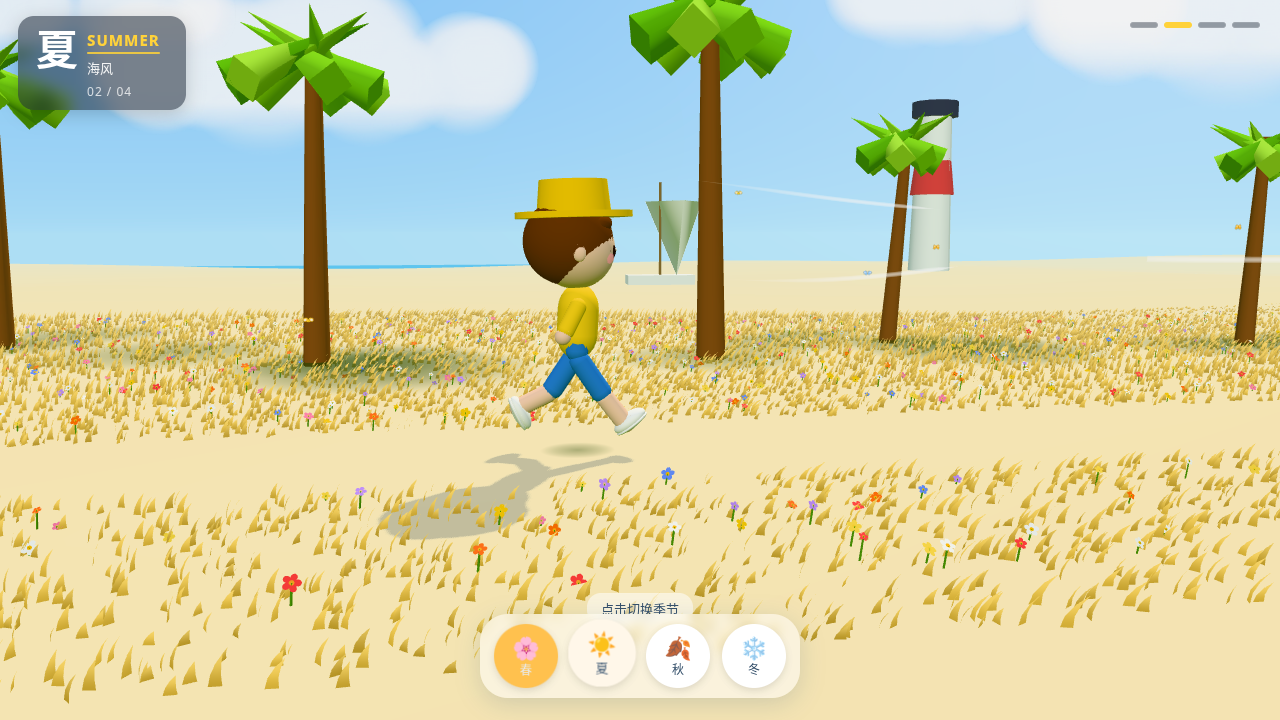
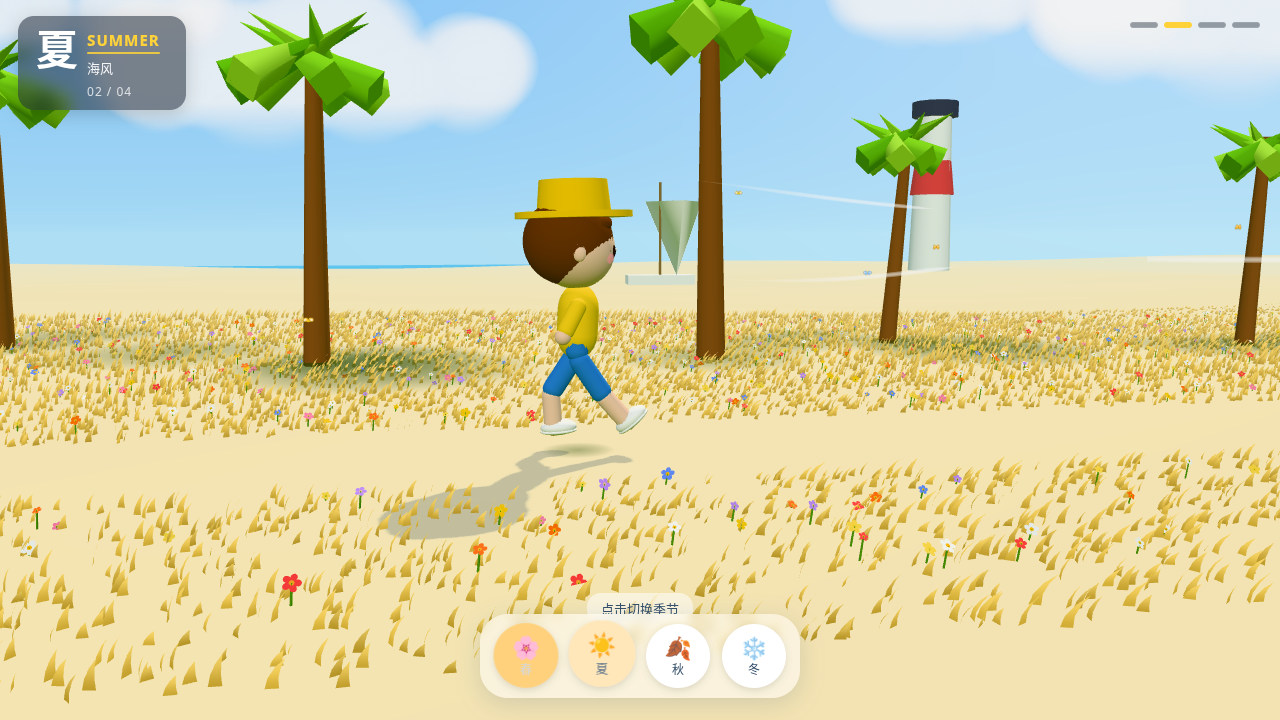
膝盖改为向后弯曲，去掉反关节

Changed region(s): [[0.375, 0.8556, 0.5, 0.9778], [0.375, 0.5194, 0.5, 0.6417]]

diff --git a/main.js b/main.js
@@ -853,14 +853,13 @@ function update(dt) {
   const stride = 0.78; // big elegant step
   u.legs.forEach((l, i) => {
     const side = i ? 1 : -1;
-    // slight ease-in-out on thigh
-    const ang = side * wc * stride;
-    l.rotation.x = ang;
-    l.rotation.z = side * wc * 0.04;
-    // knee folds on swing (shin bends the anatomical way)
-    const swing = Math.max(0, side * wc);
-    const rear = Math.max(0, -side * wc);
-    if (l.userData.shin) l.userData.shin.rotation.x = swing * 0.72 - rear * 0.08;
+    // Thigh swings forward/back in sagittal plane
+    l.rotation.x = side * wc * stride;
+    l.rotation.z = 0;
+    // Knee only bends "backward" (foot toward butt) — never forward
+    // When this thigh is forward (swing), fold shin; when rear, nearly straight
+    const swing = Math.max(0, side * wc); // 0..1 while this leg is forward
+    if (l.userData.shin) l.userData.shin.rotation.x = -0.12 - swing * 0.7;
   });
   const bob = Math.sin(ph * 2);
   u.body.position.y = bob * bob * 0.028;

diff --git a/index.html b/index.html
@@ -56,6 +56,6 @@ document.querySelectorAll('#ui button').forEach(function(b){ b.addEventListener(
   if (window.setWeather) window.setWeather(b.dataset.w); else window.__pendingWeather = b.dataset.w; }); });
 window.addEventListener('error', function(e){ var d=document.getElementById('err'); d.style.display='block'; d.textContent='3D 场景加载出错：' + (e.message||e); });
 </script>
-<script type="module" src="./main.js?v=1792758600"></script>
+<script type="module" src="./main.js?v=1792759500"></script>
 </body>
 </html>
